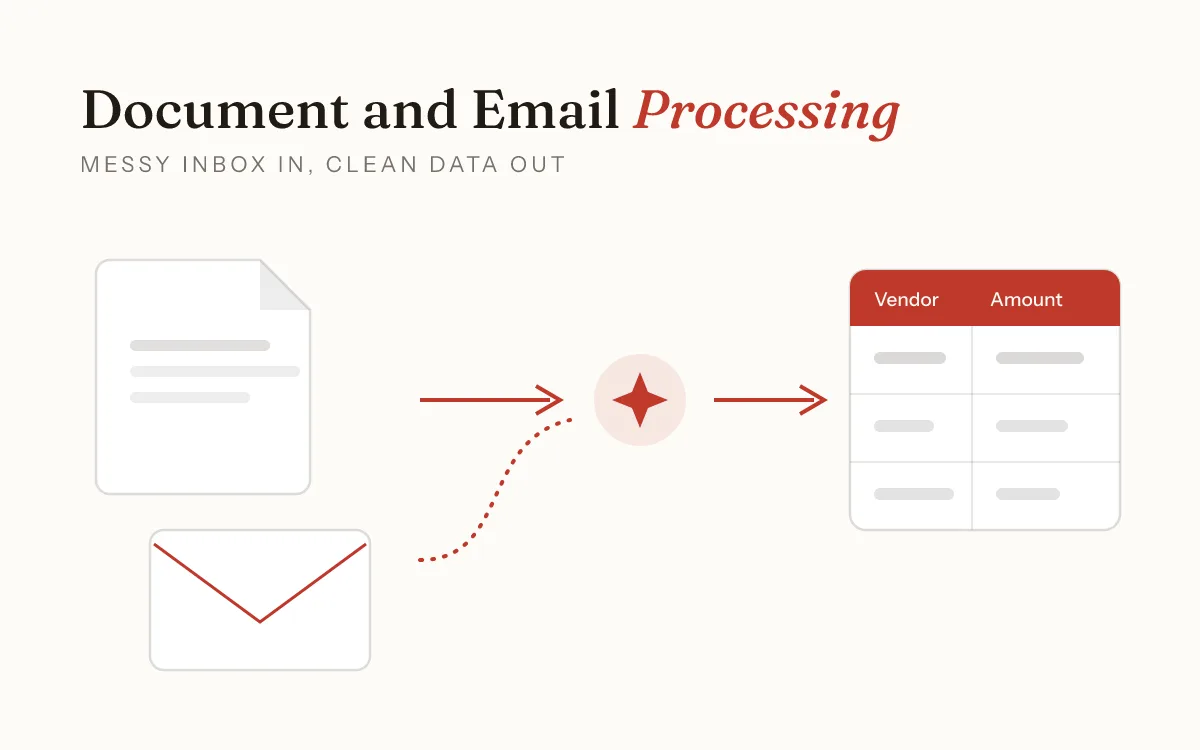
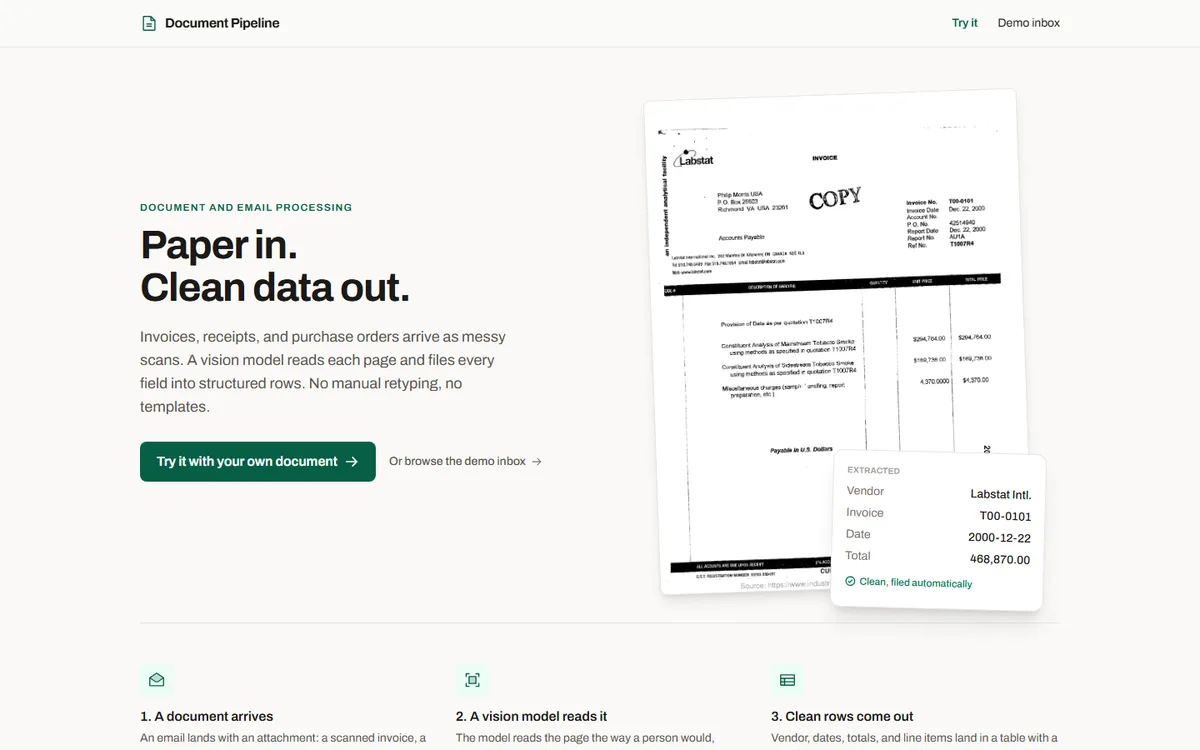
Take the doc pipeline demo live and show real certificates
The Document and Email Processing card gets its live demo and repo links
plus a real screenshot of the deployed landing page as its cover. The
certifications page now displays the actual Coursera certificates
rendered from the PDFs, each linking to Coursera's public verification
page. Advanced Data Analytics status updated to Completed per the
June 15, 2026 certificate.

diff --git a/src/views/CertificationsView.vue b/src/views/CertificationsView.vue
@@ -1,5 +1,5 @@
 <script setup>
-import { ArrowLeft } from 'lucide-vue-next'
+import { ArrowLeft, BadgeCheck } from 'lucide-vue-next'
 import { certifications } from '@/data/certifications'
 </script>
 
@@ -36,23 +36,49 @@ import { certifications } from '@/data/certifications'
         v-for="(cert, index) in certifications"
         :key="cert.name"
         v-reveal="index * 100"
-        class="grid gap-2 border-t border-ink/10 py-8 sm:grid-cols-12 sm:items-baseline dark:border-white/10"
+        class="border-t border-ink/10 py-10 dark:border-white/10"
       >
-        <span class="text-sm text-stone-400 tabular-nums sm:col-span-2 dark:text-stone-500">
-          {{ cert.year }}
-        </span>
-        <div class="sm:col-span-7">
-          <h2 class="font-display text-xl font-medium tracking-tight text-ink dark:text-white">
-            {{ cert.name }}
-          </h2>
-          <p class="mt-1 text-sm text-stone-500 dark:text-stone-400">{{ cert.issuer }}</p>
+        <div class="grid gap-2 sm:grid-cols-12 sm:items-baseline">
+          <span class="text-sm text-stone-400 tabular-nums sm:col-span-2 dark:text-stone-500">
+            {{ cert.year }}
+          </span>
+          <div class="sm:col-span-7">
+            <h2 class="font-display text-xl font-medium tracking-tight text-ink dark:text-white">
+              {{ cert.name }}
+            </h2>
+            <p class="mt-1 text-sm text-stone-500 dark:text-stone-400">{{ cert.issuer }}</p>
+          </div>
+          <p
+            class="font-display text-sm italic sm:col-span-3 sm:text-right"
+            :class="cert.status === 'Completed' ? 'text-stone-500 dark:text-stone-400' : 'text-accent'"
+          >
+            {{ cert.status }}
+          </p>
         </div>
-        <p
-          class="font-display text-sm italic sm:col-span-3 sm:text-right"
-          :class="cert.status === 'Completed' ? 'text-stone-500 dark:text-stone-400' : 'text-accent'"
-        >
-          {{ cert.status }}
-        </p>
+        <div v-if="cert.image" class="mt-6 sm:grid sm:grid-cols-12">
+          <div class="sm:col-span-10 sm:col-start-3">
+            <a
+              :href="cert.verifyUrl"
+              target="_blank"
+              rel="noopener"
+              class="group block"
+              :aria-label="`Verify the ${cert.name} on Coursera`"
+            >
+              <img
+                :src="cert.image"
+                :alt="cert.imageAlt"
+                loading="lazy"
+                class="w-full rounded-lg border border-ink/10 shadow-sm transition-shadow duration-500 ease-lux group-hover:shadow-md dark:border-white/10"
+              />
+              <span
+                class="mt-3 inline-flex items-center gap-1.5 text-sm font-medium text-stone-500 transition-colors duration-300 group-hover:text-accent dark:text-stone-400"
+              >
+                <BadgeCheck class="h-4 w-4" :stroke-width="1.5" />
+                Verify this certificate on Coursera
+              </span>
+            </a>
+          </div>
+        </div>
       </li>
       <li class="border-t border-ink/10 dark:border-white/10"></li>
     </ul>

diff --git a/src/data/certifications.js b/src/data/certifications.js
@@ -1,17 +1,30 @@
 // Add new certifications to this array and they will render on the
-// certifications page automatically.
+// certifications page automatically. The image is the real certificate,
+// rendered from the PDF in src/assets; verifyUrl is Coursera's public
+// verification page for that credential.
+
+import googleDataAnalytics from '@/assets/certs/google-data-analytics.webp'
+import googleAdvancedDataAnalytics from '@/assets/certs/google-advanced-data-analytics.webp'
 
 export const certifications = [
+  {
+    name: 'Google Advanced Data Analytics Certificate',
+    issuer: 'Google',
+    year: '2026',
+    status: 'Completed',
+    image: googleAdvancedDataAnalytics,
+    imageAlt:
+      'Google Advanced Data Analytics professional certificate issued to Raymond Gamiao on June 15, 2026',
+    verifyUrl: 'https://coursera.org/verify/professional-cert/23PU3QU1VJ5U',
+  },
   {
     name: 'Google Data Analytics Certificate',
     issuer: 'Google',
     year: '2023',
     status: 'Completed',
-  },
-  {
-    name: 'Google Advanced Data Analytics Certificate',
-    issuer: 'Google',
-    year: '2026',
-    status: 'In progress',
+    image: googleDataAnalytics,
+    imageAlt:
+      'Google Data Analytics professional certificate issued to Raymond Gamiao on August 21, 2023',
+    verifyUrl: 'https://coursera.org/verify/professional-cert/4XRH2MX8UPS2',
   },
 ]

diff --git a/src/data/projects.js b/src/data/projects.js
@@ -31,10 +31,10 @@ export const projects = [
     title: 'Document and Email Processing',
     description:
       'Emails and attachments become clean structured data with no manual retyping.',
-    status: 'Demo launching soon',
+    status: 'Live',
     image: docPipelineCover,
     imageAlt: 'Cover illustration for the document and email processing demo',
-    demoUrl: null,
-    repoUrl: null,
+    demoUrl: 'https://doc-pipeline-five.vercel.app/',
+    repoUrl: 'https://github.com/raymondgamiao/doc-pipeline',
   },
 ]